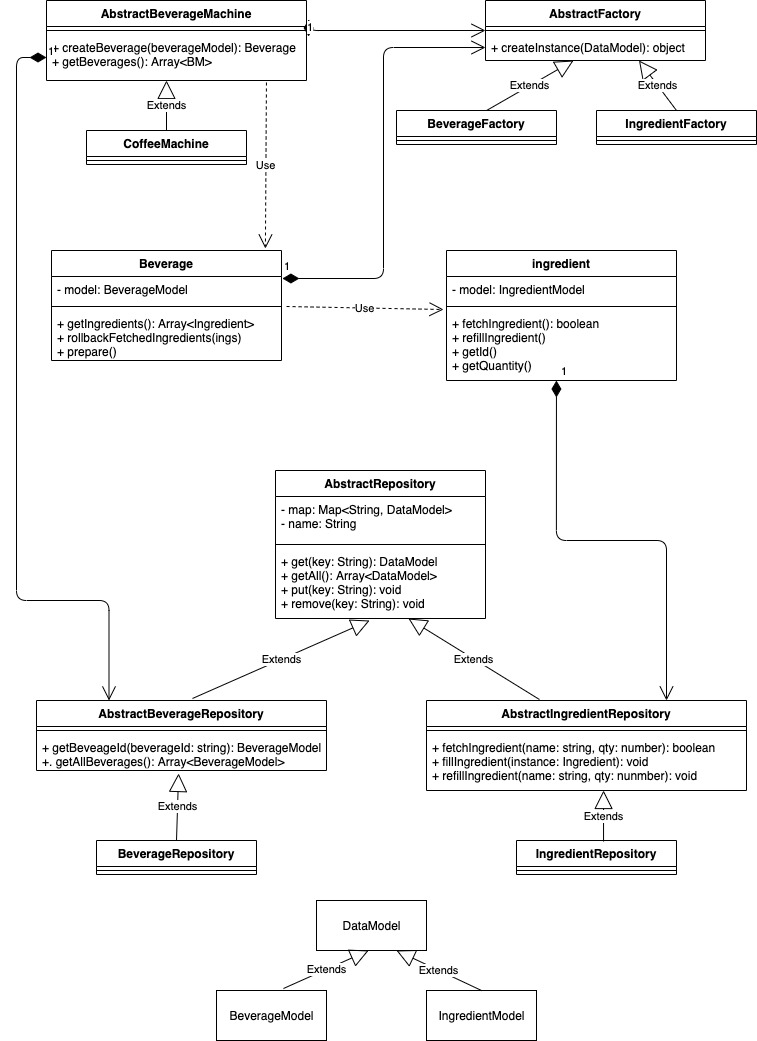
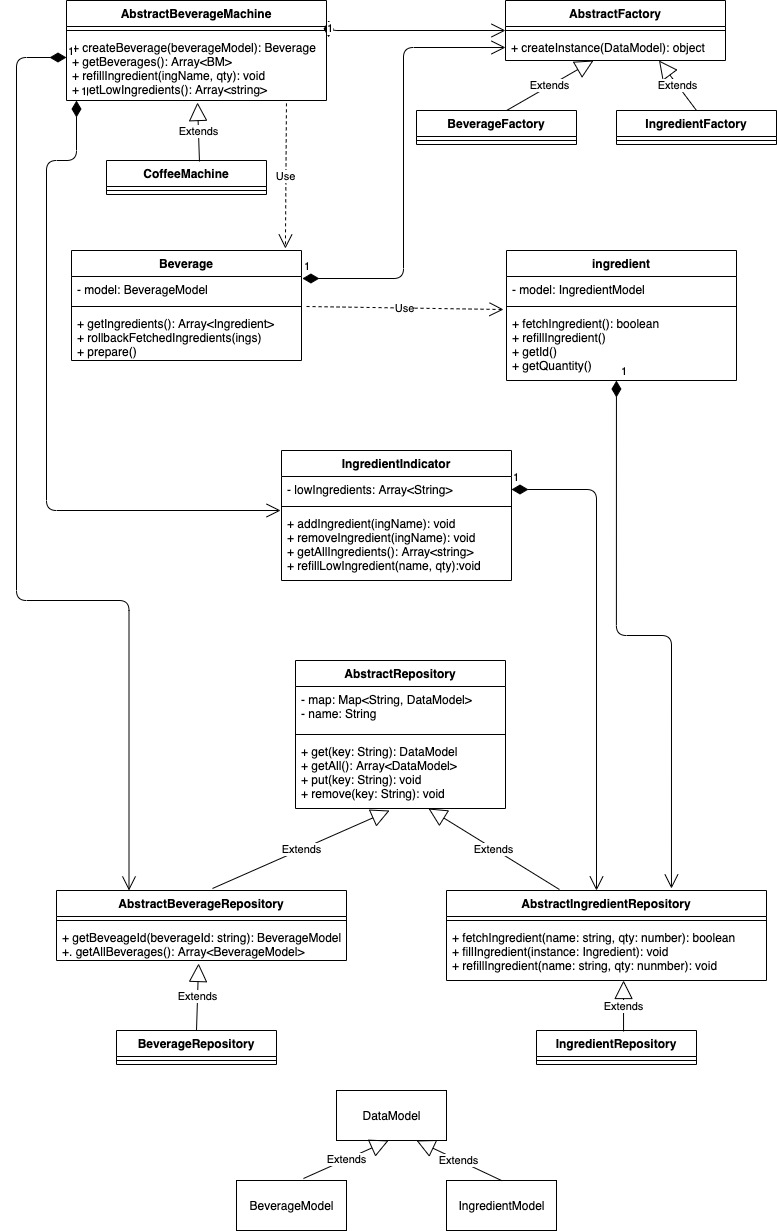
Updates UML diagram & Adds xml file for uml diagram

diff --git a/test/e2e.js b/test/e2e.js
@@ -42,7 +42,7 @@ describe('Beverage Machine Firmware', () => {
             id: "Ginger Tea", 
             ingredients_list: [
                 { "id": "Hot Milk", "quantity": 10 },
-                { "id": "Hot Water", "quantity": 1000 },
+                { "id": "Hot Water", "quantity": 100000 },
             ],
         };
         const beverage = CoffeeMachine.createBeverage(customBeverageModel);
@@ -82,17 +82,27 @@ describe('Beverage Machine Firmware', () => {
         expect(milkQtyBefore).equal(milkQtyAfter);
     });
 
-    it('should add Hot Water in Ingredient Indicator', () => {
+    it('should refill ingredient in Ingredient repository', () => {
         const Couplings = require('../app').default;
         const CoffeeMachine = Couplings.BEVERAGE_MACHINE;
-        const beverages = CoffeeMachine.getBeverages();
-        const hotWater = beverages.find(b => b.id === 'Hot Water');
-        CoffeeMachine.createBeverage(hotWater);
+        const IngredientRepository = Couplings.INGREDIENT_REPOSITORY;
 
-        const ingredientIndicator = Couplings.INGREDIENT_INDICATOR;
-        const lowIngs = ingredientIndicator.getAllIngredients();
-        const isWater = lowIngs.find(i => i === 'Water');
-        expect(isWater).equal('Water');
+        const oldQty = IngredientRepository.get('Water').quantity;
+        const CHANGE_QTY = 100;
+        CoffeeMachine.refillIngredient('Water', CHANGE_QTY);
+        const newQty = IngredientRepository.get('Water').quantity;
+        const DIFF = newQty - oldQty;
+        expect(DIFF).equal(CHANGE_QTY);
+    });
+
+    // adding 100 in each ingredient's qty before all tests
+    before(() => {
+        const Couplings = require('../app').default;
+        const CoffeeMachine = Couplings.BEVERAGE_MACHINE;
+        const IngredientRepository = Couplings.INGREDIENT_REPOSITORY;
+        const ingredients = IngredientRepository.getAll();
+        for (const ingModel of ingredients) 
+            CoffeeMachine.refillIngredient(ingModel.id, 100);
     });
     
 });

diff --git a/machine/AbstractBeverageMachine.ts b/machine/AbstractBeverageMachine.ts
@@ -3,6 +3,7 @@ import Beverage from "../implementation/Beverage";
 import { BeverageModel } from "Interfaces";
 import AbstractFactory from "../factory/AbstractFactory";
 import AbstractBeverageRepository from "../repository/AbstractBeverageRepository";
+import IngredientIndicator from "../implementation/IngredientIndicator";
 
 
 export default abstract class AbstractBeverageMachine {
@@ -10,11 +11,13 @@ export default abstract class AbstractBeverageMachine {
     private logger: any;
     private beverageFactory: AbstractFactory;
     private beverageRepository: AbstractBeverageRepository;
+    private ingredientIndicator: IngredientIndicator;
 
-    constructor(beverageFactory: AbstractFactory, beverageRepository: AbstractBeverageRepository, loggerInstance: any) {
+    constructor(beverageFactory: AbstractFactory, beverageRepository: AbstractBeverageRepository, ingredientIndicator: IngredientIndicator, loggerInstance: any) {
         this.logger = loggerInstance;
         this.beverageFactory = beverageFactory;
         this.beverageRepository = beverageRepository;
+        this.ingredientIndicator = ingredientIndicator;
     }
 
     public createBeverage(beverageModel: BeverageModel): Beverage {
@@ -24,6 +27,14 @@ export default abstract class AbstractBeverageMachine {
 
     public getBeverages(): Array<BeverageModel> {
         return this.beverageRepository.getAllBeverages();
+    }
+
+    public refillIngredient(ingredientName: string, quantity: number): void {
+        this.ingredientIndicator.refillLowIngredient(ingredientName, quantity);
+    }
+
+    public getLowIngredients(): Array<string> {
+        return this.ingredientIndicator.getAllIngredients();
     }
     
 }

diff --git a/repository/AbstractIngredientRepository.ts b/repository/AbstractIngredientRepository.ts
@@ -17,7 +17,7 @@ export default abstract class AbstractIngredientRepository extends AbstractRepos
         const { quantity: availableQuantity } = ingredientModel;
 
         if (requiredQuantity <= availableQuantity) {
-            ingredientModel.quantity = availableQuantity - requiredQuantity;
+            ingredientModel.quantity -= requiredQuantity;
             this.put(ingredientName, ingredientModel);
             if (ingredientModel.quantity <= ingredientModel.low_quantity) {
                 Couplings.INGREDIENT_INDICATOR.addIngredient(ingredientName);
@@ -39,8 +39,7 @@ export default abstract class AbstractIngredientRepository extends AbstractRepos
 
     public refillIngredient(ingredientName: string, refillQuantity: number) {
         const ingredientModel = <IngredientModel> this.get(ingredientName);
-        const { quantity: availableQuantity } = ingredientModel;
-        ingredientModel.quantity = availableQuantity + refillQuantity;
+        ingredientModel.quantity += refillQuantity;
 
         if (ingredientModel.low_quantity < ingredientModel.quantity) {
             Couplings.INGREDIENT_INDICATOR.removeIngredient(ingredientName);

diff --git a/couplings.ts b/couplings.ts
@@ -30,9 +30,9 @@ const ingredientFactoryInstance = new IngredientFactory(loggerInstance);
 const beverageRepositoryInstance = new BeverageRepository(Constants.BEVERAGES_REPOSITORY, Constants.BEVERAGES_DATA_FILE_NAME, loggerInstance);
 const ingredientRepositoryInstance = new IngredientRepository(Constants.INGREDIENT_REPOSITORY, Constants.INGREDIENTS_DATA_FILE_NAME, loggerInstance);
 
-const coffeeMachineInstance = new CoffeeMachine(beverageFactoryInstance, beverageRepositoryInstance, loggerInstance);
-
 const ingredientIndicator = new IngredientIndicator(ingredientRepositoryInstance, loggerInstance);
+
+const coffeeMachineInstance = new CoffeeMachine(beverageFactoryInstance, beverageRepositoryInstance, ingredientIndicator, loggerInstance);
 /*********************************************/
 
 
